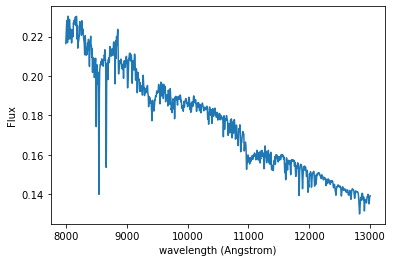
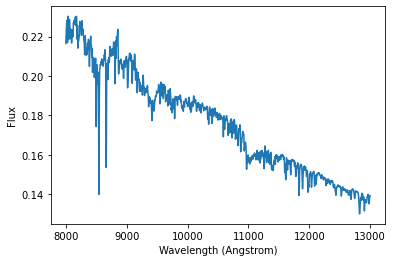
Included example about contraining model.

Changed region(s): [[0.3969, 0.916, 0.7023, 0.9771]]

diff --git a/paintbox/version.py b/paintbox/version.py
@@ -5,4 +5,4 @@ try:
     from setuptools_scm import get_version
     version = get_version(root='..', relative_to=__file__).split("+")[0]
 except Exception:
-    version = '0.1.dev175'.split("+")[0]
+    version = '0.1.dev191'.split("+")[0]

diff --git a/docs/building_models.rst b/docs/building_models.rst
@@ -50,7 +50,7 @@ SSP models.
     print("Parameters for example: ", p0)
     fig = plt.subplot(111)
     plt.plot(wave, ssp(p0), "-")
-    plt.xlabel("wavelength (Angstrom)")
+    plt.xlabel("Wavelength (Angstrom)")
     plt.ylabel("Flux")
 
 
@@ -60,16 +60,90 @@ SSP models.
     Parameters for example:  [0.1 6.  2.3 2.3]
 
 
+.. image:: building_models_files/building_models_3_2.png
+
+
+The SSP models contain elemental abundances that have solar values, but
+this can be changed with the response functions for each element. In
+practice, what we have to do is to multiply the response function by the
+base models generated above. Below we illustrate how to modify the
+models to the response of sodium, iron, calcium and potassium.
+
+::
+
+    elements = ["Na", "Fe", "Ca", "K"] # 
+    for element in elements:
+        elem_file = "templates/C18_rfs_{}.fits".format(element)
+        rfdata = fits.getdata(elem_file, ext=0)
+        rfpar = Table.read(elem_file, hdu=1)
+        vmin, vmax = rfpar[element].min(), rfpar[element].max()
+        rf = pb.ParametricModel(wave, rfpar, rfdata)
+        ssp = ssp * rf
+
+In the example above, we are already combining different **paintbox**
+components, producing one that is a multiplication of a SSP with four
+different response functions. However, the response functions are also
+dependent on the ages and metallicities of the SSP models. Consequently,
+the parameter names get repetitive in this case:
+
+::
+
+    print("Parameter names: ", ssp.parnames)
 
 
 .. parsed-literal::
 
-    Text(0, 0.5, 'Flux')
+    Parameter names:  ['Z', 'Age', 'x1', 'x2', 'Z', 'Age', 'Na', 'Z', 'Age', 'Fe', 'Z', 'Age', 'Ca', 'Z', 'Age', 'K']
 
 
+By default, **paintbox** just concatenate all the parameter names.
+However, in this application, we should use the same ages and
+metallicities in the model, which can be obtained by constraining the
+model as indicated below.
+
+::
+
+    ssp = pb.ConstrainModel(ssp)
+    print(ssp.parnames)
 
 
-.. image:: building_models_files/building_models_3_2.png
+.. parsed-literal::
+
+    ['Z', 'Age', 'x1', 'x2', 'Na', 'Fe', 'Ca', 'K']
+
+
+The ConstrainModel operator allows consistent calls to all parameters
+that are repeated.
+
+::
+
+    # Model parameters 
+    p1 = np.array([0.1, 6, 2.3, 2.3, 0.05, 0.05, 0.05, 0.05])
+    print("Parameters for non-solar abundances: ", p1)
+    fig = plt.subplot(111)
+    plt.plot(wave, ssp(p1), "-")
+    plt.xlabel("Wavelength (Angstrom)")
+    plt.ylabel("Flux")
+
+
+.. parsed-literal::
+
+    Parameters for non-solar abundances:  [0.1  6.   2.3  2.3  0.05 0.05 0.05 0.05]
+
+
+.. image:: building_models_files/building_models_11_2.png
+
+
+Emission lines
+~~~~~~~~~~~~~~
+
+TBD.
+
+Polynomials
+~~~~~~~~~~~
+
+TBD.
+
 
 
 

diff --git a/docs/index.rst b/docs/index.rst
@@ -43,8 +43,8 @@ We recommend importing **paintbox** as::
 Contribute
 ----------
 **Paintbox** is a open-source project, and contributions to improve/ extend its
-capabilities are welcome. Please visit the project's github page: [github
-.com/cebarbosa/paintbox](github.com/cebarbosa/paintbox).
+capabilities are welcome. Please visit the project's `github page <github
+.com/cebarbosa/paintbox>`_.
 
 Tutorials
 ---------
